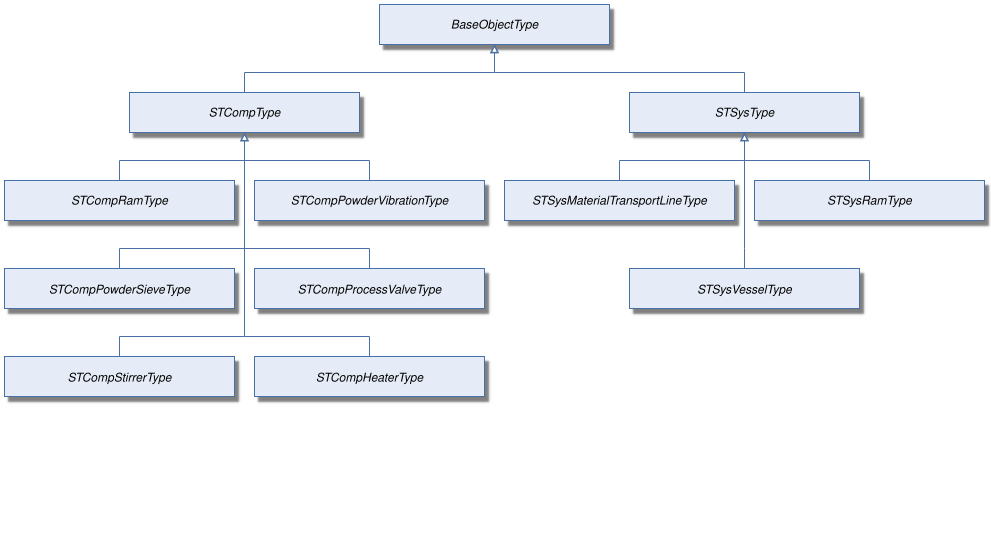
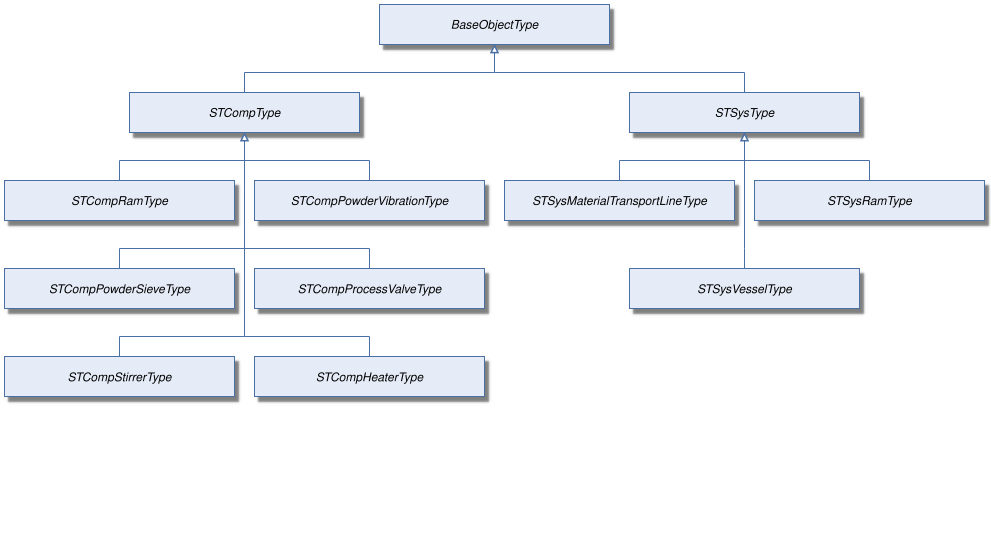
Add support for `\n` line breaks in labels

diff --git a/tree2svg.py b/tree2svg.py
@@ -186,7 +186,10 @@ def parse(text):
         label_match = re.fullmatch(r'"((?:[^"\\]|\\.)*)"', label_text)
         if not label_match:
             raise ValueError(f"node label must be quoted near: {stripped!r}")
-        label = label_match.group(1).replace(r'\"', '"').replace(r'\\', '\\')
+        label = (label_match.group(1)
+                 .replace(r'\n', '\n')
+                 .replace(r'\"', '"')
+                 .replace(r'\\', '\\'))
         node = Node(label, nodeclass, explicit_reference, branch_group)
         if depth == 1:
             root = node
@@ -393,13 +396,18 @@ def render_node_svg(node, style):
         )
     parts.append('</g>')
     text_x = node.cx
-    text_y = node.cy + FONT_SIZE * 0.35
-    label = html.escape(node.label)
+    label_lines = [html.escape(line) for line in node.label.split("\n")]
+    line_height = FONT_SIZE * 1.2
+    first_line_y = node.cy + FONT_SIZE * 0.35 - (len(label_lines) - 1) * line_height / 2
+    tspans = [
+        f'<tspan x="{text_x:.0f}" dy="{0 if index == 0 else line_height:.1f}">{line}</tspan>'
+        for index, line in enumerate(label_lines)
+    ]
     parts.append(
-        f'<text x="{text_x:.0f}" y="{text_y:.0f}" text-anchor="middle" '
+        f'<text x="{text_x:.0f}" y="{first_line_y:.1f}" text-anchor="middle" '
         f'font-family="{html.escape(style["font"], quote=True)}" font-size="{FONT_SIZE}" '
         f'font-style="{"italic" if node.nodeclass in ITALIC_CLASSES else "normal"}" '
-        f'fill="{html.escape(style["text"], quote=True)}">{label}</text>'
+        f'fill="{html.escape(style["text"], quote=True)}">{"".join(tspans)}</text>'
     )
     return parts
 
